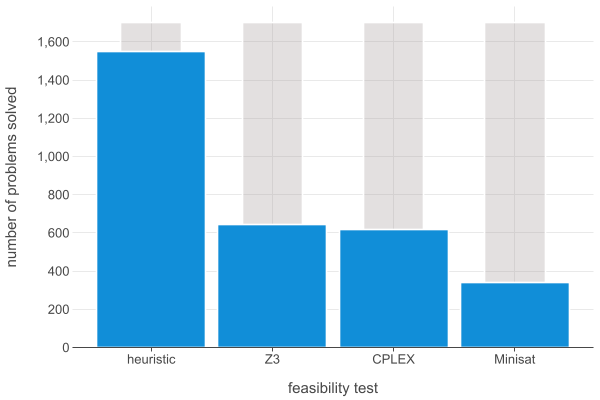
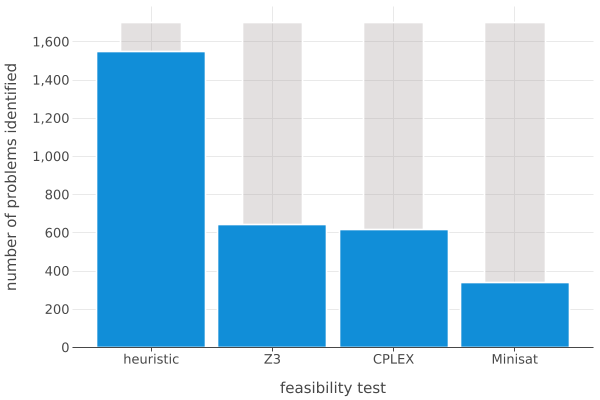
whoops

diff --git a/src/main/kotlin/experiments/feasibility/FeasibilityQuery.kt b/src/main/kotlin/experiments/feasibility/FeasibilityQuery.kt
@@ -203,25 +203,25 @@ fun main() {
 //		results.count { it.z3Result.certainlyFeasible },
 //		results.count { it.cplexResult.certainlyFeasible },
 //		results.count { it.minisatResult?.certainlyFeasible == true }
-//	), "number of problems solved", "feasible-problems-vs-solvers.png")
+//	), "number of problems identified", "feasible-problems-vs-solvers.png")
 //	solverBars(results.count { it.certainlyInfeasible }, listOf(
 //		results.count { it.heuristicResult.certainlyInfeasible },
 //		results.count { it.z3Result.certainlyInfeasible },
 //		results.count { it.cplexResult.certainlyInfeasible },
 //		results.count { it.minisatResult?.certainlyInfeasible == true }
-//	), "number of problems solved", "infeasible-problems-vs-solvers.png")
+//	), "number of problems identified", "infeasible-problems-vs-solvers.png")
 //	solverBars(results.count { !it.config.precedence && it.certainlyFeasible }, listOf(
 //		results.count { !it.config.precedence && it.heuristicResult.certainlyFeasible },
 //		results.count { !it.config.precedence && it.z3Result.certainlyFeasible },
 //		results.count { !it.config.precedence && it.cplexResult.certainlyFeasible },
 //		results.count { !it.config.precedence && it.minisatResult?.certainlyFeasible == true }
-//	), "number of problems solved", "no-prec-feasible-problems-vs-solvers.png")
+//	), "number of problems identified", "no-prec-feasible-problems-vs-solvers.png")
 //	solverBars(results.count { !it.config.precedence && it.certainlyInfeasible }, listOf(
 //		results.count { !it.config.precedence && it.heuristicResult.certainlyInfeasible },
 //		results.count { !it.config.precedence && it.z3Result.certainlyInfeasible },
 //		results.count { !it.config.precedence && it.cplexResult.certainlyInfeasible },
 //		results.count { !it.config.precedence && it.minisatResult?.certainlyInfeasible == true }
-//	), "number of problems solved", "no-prec-infeasible-problems-vs-solvers.png")
+//	), "number of problems identified", "no-prec-infeasible-problems-vs-solvers.png")
 //	solverBars(results.count { !it.config.precedence && it.certainlyInfeasible && it.config.jobLength <= 20 && it.config.utilization == 90 }, listOf(
 //		results.count { !it.config.precedence && it.heuristicResult.certainlyInfeasible && it.config.jobLength <= 20 && it.config.utilization == 90 },
 //		results.count { !it.config.precedence && it.z3Result.certainlyInfeasible && it.config.jobLength <= 20 && it.config.utilization == 90 },
